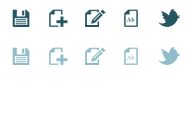
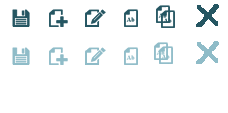
v0.6

diff --git a/static/application.min.js b/static/application.min.js
@@ -1,1 +1,1 @@
-var haste_document=function(){this.locked=!1};haste_document.prototype.htmlEscape=function(t){return t.replace(/&/g,"&amp;").replace(/>/g,"&gt;").replace(/</g,"&lt;").replace(/"/g,"&quot;")},haste_document.prototype.load=function(t,e,o){var n=this;$.ajax("/documents/"+t,{type:"get",dataType:"json",success:function(s){n.locked=!0,n.key=t,n.data=s.data;try{var i;i="txt"===o?{value:n.htmlEscape(s.data)}:o?hljs.highlight(o,s.data):hljs.highlightAuto(s.data)}catch(t){i=hljs.highlightAuto(s.data)}e({value:i.value,key:t,language:i.language||o,lineCount:s.data.split("\n").length})},error:function(){e(!1)}})},haste_document.prototype.save=function(t,e,o){if(this.locked)return!1;this.data=e;var n=this;$.ajax("/documents/"+t,{type:"post",data:e,dataType:"json",contentType:"text/plain; charset=utf-8",success:function(t){n.key=t.key;var s=hljs.highlightAuto(e);o(null,{value:s.value,key:t.key,language:s.language,lineCount:e.split("\n").length})},error:function(t){try{o($.parseJSON(t.responseText))}catch(t){o({message:"Something went wrong!"})}}})},haste_document.prototype.getkey=function(t){$.ajax("/key/",{type:"get",success:function(e){t(null,e)},error:function(e){try{t($.parseJSON(e.responseText))}catch(e){t({message:"Something went wrong!"})}}})};var haste=function(t,e){this.appName=t,this.$textarea=$("textarea"),this.$box=$("#box"),this.$code=$("#box code"),this.$linenos=$("#linenos"),this.options=e,this.configureShortcuts(),this.configureButtons(),e.twitter||$("#box2 .twitter").hide()};haste.prototype.setTitle=function(t){var e=t?this.appName+" - "+t:this.appName;document.title=e},haste.prototype.showMessage=function(t,e){var o=$('<li class="'+(e||"info")+'">'+t+"</li>");$("#messages").prepend(o),setTimeout(function(){o.slideUp("fast",function(){$(this).remove()})},3e3)},haste.prototype.lightKey=function(){this.configureKey(["new","save"])},haste.prototype.fullKey=function(){this.configureKey(["new","duplicate","twitter","raw"])},haste.prototype.allKey=function(){this.configureKey(["new","save","duplicate","twitter","raw"])},haste.prototype.configureKey=function(t){var e,o=0;$("#box2 .function").each(function(){for(e=$(this),o=0;o<t.length;o++)if(e.hasClass(t[o]))return e.addClass("enabled"),!0;e.removeClass("enabled")})},haste.prototype.getCurrentKey=function(){var t=window.location.pathname;return t="/"==t?null:t.substr(1)},haste.prototype.getList=function(t){$.ajax("/documents/",{type:"get",dataType:"json",success:function(e){t(e)},error:function(){t(!1)}})},haste.prototype.newDocument=function(t,e){var o=this,n=this.getCurrentKey(),s=function(t){window.history.pushState(null,o.appName,"/"+t),o.$box.hide(),o.doc=new haste_document,o.setTitle(),o.lightKey(),o.$textarea.val("").show("fast",function(){this.focus()}),o.removeLineNumbers(),e&&e(o.doc)};n&&!t?s(n):haste_document.prototype.getkey(function(t,e){s(e)}),o.updateList()},haste.extensionMap={rb:"ruby",py:"python",pl:"perl",php:"php",scala:"scala",go:"go",xml:"xml",html:"xml",htm:"xml",css:"css",js:"javascript",vbs:"vbscript",lua:"lua",pas:"delphi",java:"java",cpp:"cpp",cc:"cpp",m:"objectivec",vala:"vala",sql:"sql",sm:"smalltalk",lisp:"lisp",ini:"ini",diff:"diff",bash:"bash",sh:"bash",tex:"tex",erl:"erlang",hs:"haskell",md:"markdown",txt:"",coffee:"coffee",swift:"swift"},haste.prototype.lookupExtensionByType=function(t){for(var e in haste.extensionMap)if(haste.extensionMap[e]===t)return e;return t},haste.prototype.lookupTypeByExtension=function(t){return haste.extensionMap[t]||t},haste.prototype.addLineNumbers=function(t){for(var e="",o=0;o<t;o++)e+=(o+1).toString()+"<br/>";$("#linenos").html(e)},haste.prototype.removeLineNumbers=function(){$("#linenos").html("&gt;")},haste.prototype.loadDocument=function(t){var e=t.split(".",2),o=this;o.doc=new haste_document,o.doc.load(t,function(t){t?(o.$code.html(t.value),o.setTitle(t.key),o.fullKey(),o.$textarea.val("").hide(),o.$box.show().focus(),o.addLineNumbers(t.lineCount)):o.newDocument()},this.lookupTypeByExtension(e[1])),this.updateList()},haste.prototype.duplicateDocument=function(){var t=this;if(t.doc.locked){var e=t.doc.data;t.newDocument(!0,function(){t.$textarea.val(e)})}},haste.prototype.lockDocument=function(){var t=this;this.doc.save(this.getCurrentKey(),this.$textarea.val(),function(e,o){e?t.showMessage(e.message,"error"):o&&(t.doc.locked=!0,t.$code.html(o.value),t.setTitle(o.key),t.fullKey(),t.$textarea.val("").hide(),t.$box.show().focus(),t.addLineNumbers(o.lineCount))})},haste.prototype.unlockDocument=function(){var t=this;t.$textarea.val(t.$code.text()).show().focus(),t.$box.hide(),t.allKey(),t.removeLineNumbers(),t.doc.locked=!1},haste.prototype.configureButtons=function(){var t=this;this.buttons=[{$where:$("#box2 .save"),label:"Save",shortcutDescription:"control + s",shortcut:function(t){return t.ctrlKey&&83===t.keyCode},action:function(){""!==t.$textarea.val().replace(/^\s+|\s+$/g,"")&&t.lockDocument()}},{$where:$("#box2 .new"),label:"New",shortcut:function(t){return t.ctrlKey&&78===t.keyCode},shortcutDescription:"control + n",action:function(){t.newDocument(!0)}},{$where:$("#box2 .duplicate"),label:"Duplicate & Edit",shortcut:function(e){return t.doc.locked&&e.ctrlKey&&68===e.keyCode},shortcutDescription:"control + d",action:function(){t.duplicateDocument()}},{$where:$("#box2 .raw"),label:"Just Text",shortcut:function(t){return t.ctrlKey&&t.shiftKey&&82===t.keyCode},shortcutDescription:"control + shift + r",action:function(){window.location.href="/raw/"+t.doc.key}},{$where:$("#box2 .twitter"),label:"Edit",shortcut:function(e){return t.options.twitter&&t.doc.locked&&e.shiftKey&&e.ctrlKey&&84==e.keyCode},shortcutDescription:"control + shift + t",action:function(){t.unlockDocument()}}];for(var e=0;e<this.buttons.length;e++)this.configureButton(this.buttons[e])},haste.prototype.configureButton=function(t){t.$where.click(function(e){e.preventDefault(),!t.clickDisabled&&$(this).hasClass("enabled")&&t.action()}),t.$where.mouseenter(function(){$("#box3 .label").text(t.label),$("#box3 .shortcut").text(t.shortcutDescription||""),$("#box3").show(),$(this).append($("#pointer").remove().show())}),t.$where.mouseleave(function(){$("#box3").hide(),$("#pointer").hide()})},haste.prototype.updateList=function(){this.getList(function(t){if(t){var e="";t.forEach(function(t){e+='<li><a href="'+t+'">'+t+"</a></li>"}),$("#list").html(e)}})},haste.prototype.configureShortcuts=function(){var t=this;$(document.body).keydown(function(e){for(var o,n=0;n<t.buttons.length;n++)if((o=t.buttons[n]).shortcut&&o.shortcut(e))return e.preventDefault(),void o.action()})},haste.prototype.autosave=function(){var t=this;t.$textarea.on("keydown",function(){t.doc.changed=!0});var e=function(){t.doc&&!t.doc.locked&&t.doc.changed&&(t.doc.save(t.getCurrentKey(),t.$textarea.val(),function(e,o){e&&t.showMessage("Error "+e)}),t.doc.changed=!1),window.setTimeout(e,15e3)};window.setTimeout(e,5e3)},$(function(){$("textarea").keydown(function(t){if(9===t.keyCode){t.preventDefault();if(document.selection)this.focus(),document.selection.createRange().text="  ",this.focus();else if(this.selectionStart||"0"==this.selectionStart){var e=this.selectionStart,o=this.selectionEnd,n=this.scrollTop;this.value=this.value.substring(0,e)+"  "+this.value.substring(o,this.value.length),this.focus(),this.selectionStart=e+"  ".length,this.selectionEnd=e+"  ".length,this.scrollTop=n}else this.value+="  ",this.focus()}})});
+var haste_document=function(){this.locked=!1};haste_document.prototype.htmlEscape=function(t){return t.replace(/&/g,"&amp;").replace(/>/g,"&gt;").replace(/</g,"&lt;").replace(/"/g,"&quot;")},haste_document.prototype.load=function(t,e,o){var n=this;$.ajax("/documents/"+t,{type:"get",dataType:"json",success:function(s){n.locked=!0,n.key=t,n.data=s.data;try{var i;i="txt"===o?{value:n.htmlEscape(s.data)}:o?hljs.highlight(o,s.data):hljs.highlightAuto(s.data)}catch(t){i=hljs.highlightAuto(s.data)}e({value:i.value,key:t,language:i.language||o,lineCount:s.data.split("\n").length})},error:function(){e(!1)}})},haste_document.prototype.save=function(t,e,o){if(this.locked)return!1;this.data=e;var n=this;$.ajax("/documents/"+t,{type:"post",data:e,dataType:"json",contentType:"text/plain; charset=utf-8",success:function(t){n.key=t.key;var s=hljs.highlightAuto(e);o(null,{value:s.value,key:t.key,language:s.language,lineCount:e.split("\n").length})},error:function(t){try{o($.parseJSON(t.responseText))}catch(t){o({message:"Something went wrong!"})}}})},haste_document.prototype.deleteDocument=function(t,e){if(!this.locked)return!1;$.ajax("/documents/"+t,{type:"delete",success:function(t){e(null,t)},error:function(t){try{e($.parseJSON(t.responseText))}catch(t){e({message:"Something went wrong!"})}}})},haste_document.prototype.getkey=function(t){$.ajax("/key/",{type:"get",success:function(e){t(null,e)},error:function(e){try{t($.parseJSON(e.responseText))}catch(e){t({message:"Something went wrong!"})}}})};var haste=function(t,e){this.appName=t,this.$textarea=$("textarea"),this.$box=$("#box"),this.$code=$("#box code"),this.$linenos=$("#linenos"),this.options=e,this.configureShortcuts(),this.configureButtons(),e.twitter||$("#box2 .twitter").hide()};haste.prototype.setTitle=function(t){var e=t?this.appName+" - "+t:this.appName;document.title=e},haste.prototype.showMessage=function(t,e){var o=$('<li class="'+(e||"info")+'">'+t+"</li>");$("#messages").prepend(o),setTimeout(function(){o.slideUp("fast",function(){$(this).remove()})},3e3)},haste.prototype.lightKey=function(){this.configureKey(["new","save"])},haste.prototype.fullKey=function(){this.configureKey(["new","duplicate","edit","raw","delete"])},haste.prototype.allKey=function(){this.configureKey(["new","save","duplicate","edit","raw","delete"])},haste.prototype.configureKey=function(t){var e,o=0;$("#box2 .function").each(function(){for(e=$(this),o=0;o<t.length;o++)if(e.hasClass(t[o]))return e.addClass("enabled"),!0;e.removeClass("enabled")})},haste.prototype.getCurrentKey=function(){var t=window.location.pathname;return t="/"==t?null:t.substr(1)},haste.prototype.getList=function(t){$.ajax("/documents/",{type:"get",dataType:"json",success:function(e){t(e)},error:function(){t(!1)}})},haste.prototype.newDocument=function(t,e){var o=this,n=this.getCurrentKey(),s=function(t){window.history.pushState(null,o.appName,"/"+t),o.$box.hide(),o.doc=new haste_document,o.setTitle(),o.lightKey(),o.$textarea.val("").show("fast",function(){this.focus()}),o.removeLineNumbers(),e&&e(o.doc)};n&&!t?s(n):haste_document.prototype.getkey(function(t,e){s(e)}),o.updateList()},haste.extensionMap={rb:"ruby",py:"python",pl:"perl",php:"php",scala:"scala",go:"go",xml:"xml",html:"xml",htm:"xml",css:"css",js:"javascript",vbs:"vbscript",lua:"lua",pas:"delphi",java:"java",cpp:"cpp",cc:"cpp",m:"objectivec",vala:"vala",sql:"sql",sm:"smalltalk",lisp:"lisp",ini:"ini",diff:"diff",bash:"bash",sh:"bash",tex:"tex",erl:"erlang",hs:"haskell",md:"markdown",txt:"",coffee:"coffee",swift:"swift"},haste.prototype.lookupExtensionByType=function(t){for(var e in haste.extensionMap)if(haste.extensionMap[e]===t)return e;return t},haste.prototype.lookupTypeByExtension=function(t){return haste.extensionMap[t]||t},haste.prototype.addLineNumbers=function(t){for(var e="",o=0;o<t;o++)e+=(o+1).toString()+"<br/>";$("#linenos").html(e)},haste.prototype.removeLineNumbers=function(){$("#linenos").html("&gt;")},haste.prototype.loadDocument=function(t){var e=t.split(".",2),o=this;o.doc=new haste_document,o.doc.load(t,function(t){t?(o.$code.html(t.value),o.setTitle(t.key),o.fullKey(),o.$textarea.val("").hide(),o.$box.show().focus(),o.addLineNumbers(t.lineCount)):o.newDocument()},this.lookupTypeByExtension(e[1])),this.updateList()},haste.prototype.duplicateDocument=function(){var t=this;if(t.doc.locked){var e=t.doc.data;t.newDocument(!0,function(){t.$textarea.val(e)})}},haste.prototype.lockDocument=function(){var t=this;this.doc.save(this.getCurrentKey(),this.$textarea.val(),function(e,o){e?t.showMessage(e.message,"error"):o&&(t.doc.locked=!0,t.$code.html(o.value),t.setTitle(o.key),t.fullKey(),t.$textarea.val("").hide(),t.$box.show().focus(),t.addLineNumbers(o.lineCount))})},haste.prototype.unlockDocument=function(){var t=this;t.$textarea.val(t.$code.text()).show().focus(),t.$box.hide(),t.lightKey(),t.removeLineNumbers(),t.doc.locked=!1},haste.prototype.configureButtons=function(){var t=this;this.buttons=[{$where:$("#box2 .save"),label:"Save",shortcutDescription:"control + s",shortcut:function(t){return t.ctrlKey&&83===t.keyCode},action:function(){""!==t.$textarea.val().replace(/^\s+|\s+$/g,"")&&t.lockDocument()}},{$where:$("#box2 .new"),label:"New",shortcut:function(t){return t.ctrlKey&&78===t.keyCode},shortcutDescription:"control + n",action:function(){t.newDocument(!0)}},{$where:$("#box2 .duplicate"),label:"Duplicate & Edit",shortcut:function(e){return t.doc.locked&&e.ctrlKey&&68===e.keyCode},shortcutDescription:"control + d",action:function(){t.duplicateDocument()}},{$where:$("#box2 .raw"),label:"Just Text",shortcut:function(t){return t.ctrlKey&&t.shiftKey&&82===t.keyCode},shortcutDescription:"control + shift + r",action:function(){window.location.href="/raw/"+t.doc.key}},{$where:$("#box2 .edit"),label:"Edit",shortcut:function(e){return t.doc.locked&&e.shiftKey&&e.ctrlKey&&84==e.keyCode},shortcutDescription:"control + shift + t",action:function(){t.unlockDocument()}},{$where:$("#box2 .delete"),label:"Delete",shortcut:function(t){return!1},shortcutDescription:"none",action:function(){t.doc.deleteDocument(t.getCurrentKey(),function(){t.$box.html(""),t.removeLineNumbers(),t.showMessage("Deleted"),t.updateList()})}}];for(var e=0;e<this.buttons.length;e++)this.configureButton(this.buttons[e])},haste.prototype.configureButton=function(t){t.$where.click(function(e){e.preventDefault(),!t.clickDisabled&&$(this).hasClass("enabled")&&t.action()}),t.$where.mouseenter(function(){$("#box3 .label").text(t.label),$("#box3 .shortcut").text(t.shortcutDescription||""),$("#box3").show(),$(this).append($("#pointer").remove().show())}),t.$where.mouseleave(function(){$("#box3").hide(),$("#pointer").hide()})},haste.prototype.updateList=function(){this.getList(function(t){if(t){var e="",o=0;t.forEach(function(t){o<150&&(e+='<li><a href="'+t+'">'+t+"</a></li>"),o++}),$("#list").html(e)}})},haste.prototype.configureShortcuts=function(){var t=this;$(document.body).keydown(function(e){for(var o,n=0;n<t.buttons.length;n++)if((o=t.buttons[n]).shortcut&&o.shortcut(e))return e.preventDefault(),void o.action()})},haste.prototype.autosave=function(){var t=this;t.$textarea.on("keydown",function(){t.doc.changed=!0});var e=function(){t.doc&&!t.doc.locked&&t.doc.changed&&(t.doc.save(t.getCurrentKey(),t.$textarea.val(),function(e,o){e&&t.showMessage("Error "+e)}),t.doc.changed=!1),window.setTimeout(e,5e3)};window.setTimeout(e,5e3)},$(function(){$("textarea").keydown(function(t){if(9===t.keyCode){t.preventDefault();if(document.selection)this.focus(),document.selection.createRange().text="  ",this.focus();else if(this.selectionStart||"0"==this.selectionStart){var e=this.selectionStart,o=this.selectionEnd,n=this.scrollTop;this.value=this.value.substring(0,e)+"  "+this.value.substring(o,this.value.length),this.focus(),this.selectionStart=e+"  ".length,this.selectionEnd=e+"  ".length,this.scrollTop=n}else this.value+="  ",this.focus()}})});

diff --git a/static/application.js b/static/application.js
@@ -86,6 +86,28 @@ haste_document.prototype.save = function(key, data, callback) {
   });
 };
 
+// Save this document to the server and lock it here
+haste_document.prototype.deleteDocument = function(key, callback) {
+  if (!this.locked) {
+    return false;
+  }
+  var _this = this;
+  $.ajax('/documents/' + key, {
+    type: 'delete',
+    success: function(res) {
+      callback(null, res);
+    },
+    error: function(res) {
+      try {
+        callback($.parseJSON(res.responseText));
+      }
+      catch (e) {
+        callback({message: 'Something went wrong!'});
+      }
+    }
+  });
+};
+
 // get a valid key from server
 haste_document.prototype.getkey = function(callback) {
   $.ajax('/key/', {
@@ -143,12 +165,12 @@ haste.prototype.lightKey = function() {
 
 // Show the full key
 haste.prototype.fullKey = function() {
-  this.configureKey(['new', 'duplicate', 'twitter', 'raw']);
+  this.configureKey(['new', 'duplicate', 'edit', 'raw', 'delete']);
 };
 
 // Show all the keys
 haste.prototype.allKey = function() {
-  this.configureKey(['new', 'save', 'duplicate', 'twitter', 'raw']);
+  this.configureKey(['new', 'save', 'duplicate', 'edit', 'raw', 'delete']);
 };
 
 // Set the key up for certain things to be enabled
@@ -323,7 +345,7 @@ haste.prototype.unlockDocument = function() {
   var _this = this;
   _this.$textarea.val(_this.$code.text()).show().focus();
   _this.$box.hide();
-  _this.allKey();
+  _this.lightKey();
   _this.removeLineNumbers();
   _this.doc.locked = false;
 };
@@ -378,15 +400,30 @@ haste.prototype.configureButtons = function() {
       }
     },
     {
-      $where: $('#box2 .twitter'),
+      $where: $('#box2 .edit'),
       label: 'Edit',
       shortcut: function(evt) {
-        return _this.options.twitter && _this.doc.locked && evt.shiftKey && evt.ctrlKey && evt.keyCode == 84;
+        return _this.doc.locked && evt.shiftKey && evt.ctrlKey && evt.keyCode == 84;
       },
       shortcutDescription: 'control + shift + t',
       action: function() {
-        //window.open('https://twitter.com/share?url=' + encodeURI(window.location.href));
         _this.unlockDocument();
+      }
+    },
+    {
+      $where: $('#box2 .delete'),
+      label: 'Delete',
+      shortcut: function(evt) {
+        return false;
+      },
+      shortcutDescription: 'none',
+      action: function() {
+        _this.doc.deleteDocument(_this.getCurrentKey(), function () { 
+          _this.$box.html('');
+          _this.removeLineNumbers();
+          _this.showMessage("Deleted");
+          _this.updateList();
+        });
       }
     }
   ];
@@ -422,8 +459,11 @@ haste.prototype.updateList = function () {
   _this.getList(function (lst) {
     if (lst) {
       var lis = "";
+      var cnt = 0;
       lst.forEach(function (file) {
-        lis+= '<li><a href="'+file+'">'+file+'</a></li>';
+        if (cnt < 150)
+          lis+= '<li><a href="'+file+'">'+file+'</a></li>';
+        cnt++;
       });
       $('#list').html(lis);
     }
@@ -461,7 +501,7 @@ haste.prototype.autosave = function() {
       });
       _this.doc.changed = false;
     }
-    window.setTimeout(cycle, 15000);  
+    window.setTimeout(cycle, 5000);  
   };
 
   window.setTimeout(cycle, 5000);

diff --git a/static/application.css b/static/application.css
@@ -133,6 +133,30 @@ textarea {
 	font-weight: normal;
 }
 
+#box4 ul {
+	margin-block-start: 3px;
+	margin-block-end: 3px;
+	padding-inline-start: 0;
+	background: #00222b;
+}
+
+#box4 li {
+	display: block;
+	font-family: monospace;
+}
+
+#box4 a {
+	display:block;
+	padding-left: 10px;
+	text-decoration: none;
+	color: #fff;
+}
+
+#box4 a:hover {
+	background: #173e48;
+	font-weight: bold;
+}
+
 #box2 .function.save { background-position: -5px top; }
 #box2 .function.enabled.save { background-position: -5px center; }
 #box2 .function.enabled.save:hover { background-position: -5px bottom; }
@@ -141,17 +165,21 @@ textarea {
 #box2 .function.enabled.new { background-position: -42px center; }
 #box2 .function.enabled.new:hover { background-position: -42px bottom; }
 
-#box2 .function.duplicate { background-position: -79px top; }
-#box2 .function.enabled.duplicate { background-position: -79px center; }
-#box2 .function.enabled.duplicate:hover { background-position: -79px bottom; }
+#box2 .function.edit { background-position: -79px top; }
+#box2 .function.enabled.edit { background-position: -79px center; }
+#box2 .function.enabled.edit:hover { background-position: -79px bottom; }
 
 #box2 .function.raw { background-position: -116px top; }
 #box2 .function.enabled.raw { background-position: -116px center; }
 #box2 .function.enabled.raw:hover { background-position: -116px bottom; }
 
-#box2 .function.twitter { background-position: -153px top; }
-#box2 .function.enabled.twitter { background-position: -153px center; }
-#box2 .function.enabled.twitter:hover { background-position: -153px bottom; }
+#box2 .function.duplicate { background-position: -153px top; }
+#box2 .function.enabled.duplicate { background-position: -153px center; }
+#box2 .function.enabled.duplicate:hover { background-position: -153px bottom; }
+
+#box2 .function.delete { background-position: -190px top; }
+#box2 .function.enabled.delete { background-position: -190px center; }
+#box2 .function.enabled.delete:hover { background-position: -190px bottom; }
 #box2 .button-picture{ border-width: 0; font-size: inherit; }
 
 #messages {

diff --git a/static/index.html b/static/index.html
@@ -50,9 +50,10 @@
 			<div id="box2">
 				<button class="save function button-picture">Save</button>
 				<button class="new function button-picture">New</button>
-				<button class="duplicate function button-picture">Duplicate & Edit</button>
+				<button class="edit function button-picture">Edit</button>
 				<button class="raw function button-picture">Just Text</button>
-				<button class="twitter function button-picture">Edit</button>
+				<button class="duplicate function button-picture">Duplicate & Edit</button>
+				<button class="delete function button-picture">Delete</button>
 			</div>
 			<div id="box3" style="display:none;">
 				<div class="label"></div>

diff --git a/README.md b/README.md
@@ -3,7 +3,7 @@
 Test it in seconds : 
 
 ```bash
-docker run --rm -d -p 7777:7777 hastepad:0.5
+docker run --rm -d -p 7777:7777 mtudury/hastepad:0.6
 ```
 Open your browser and type url : http://127.0.0.1:7777/
 
